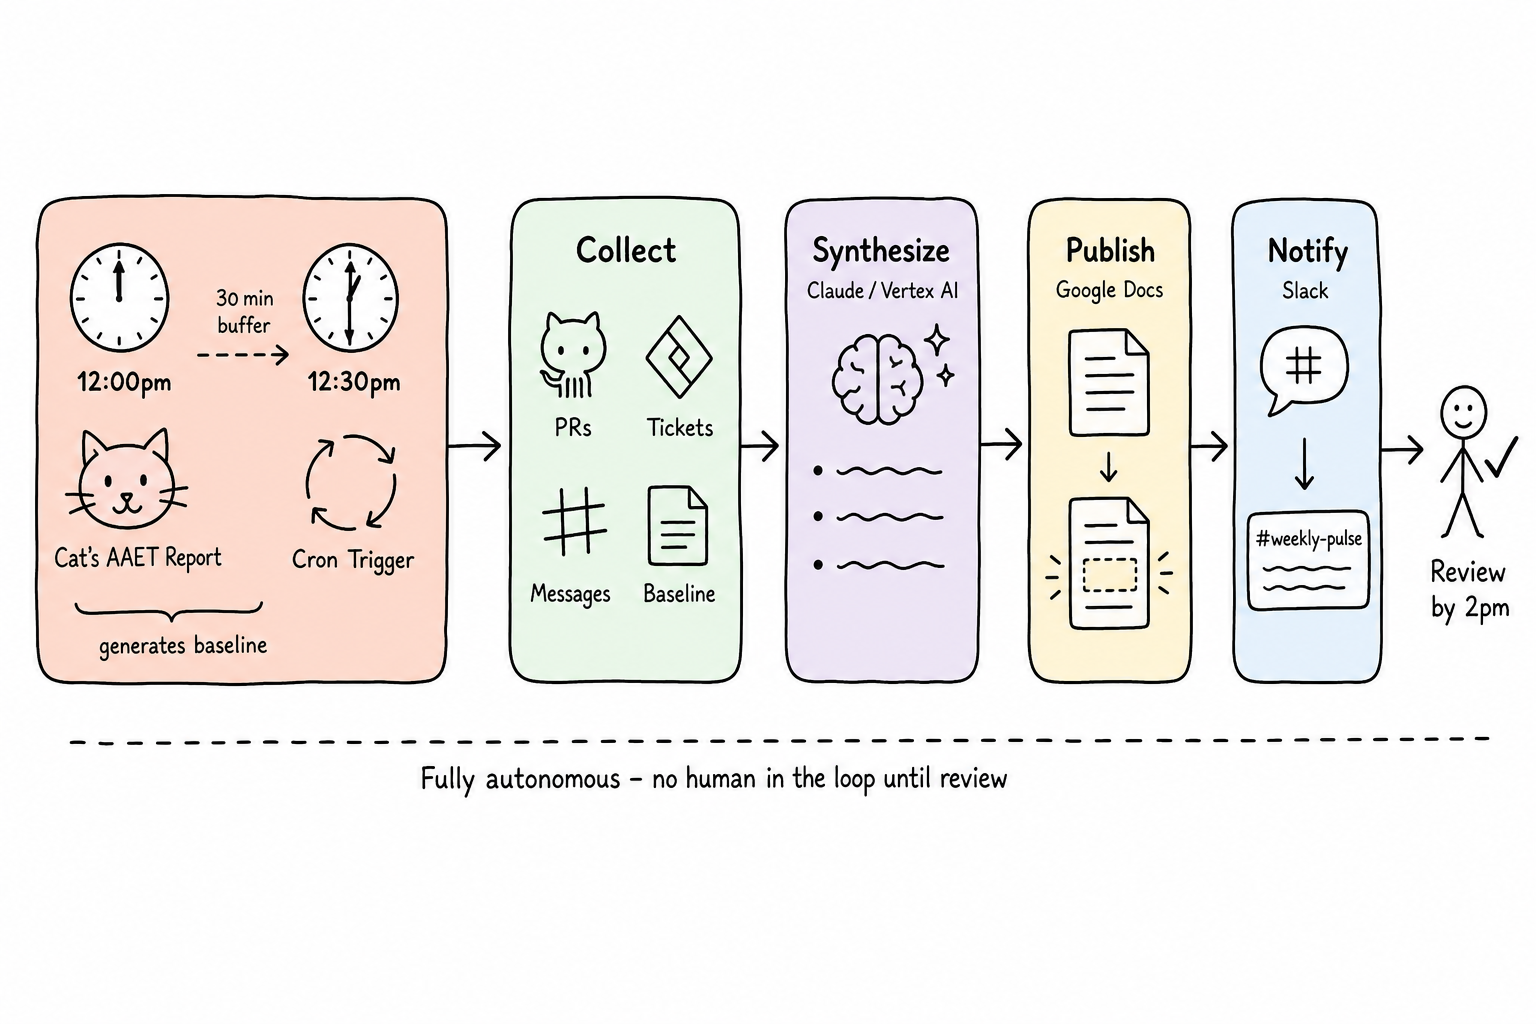
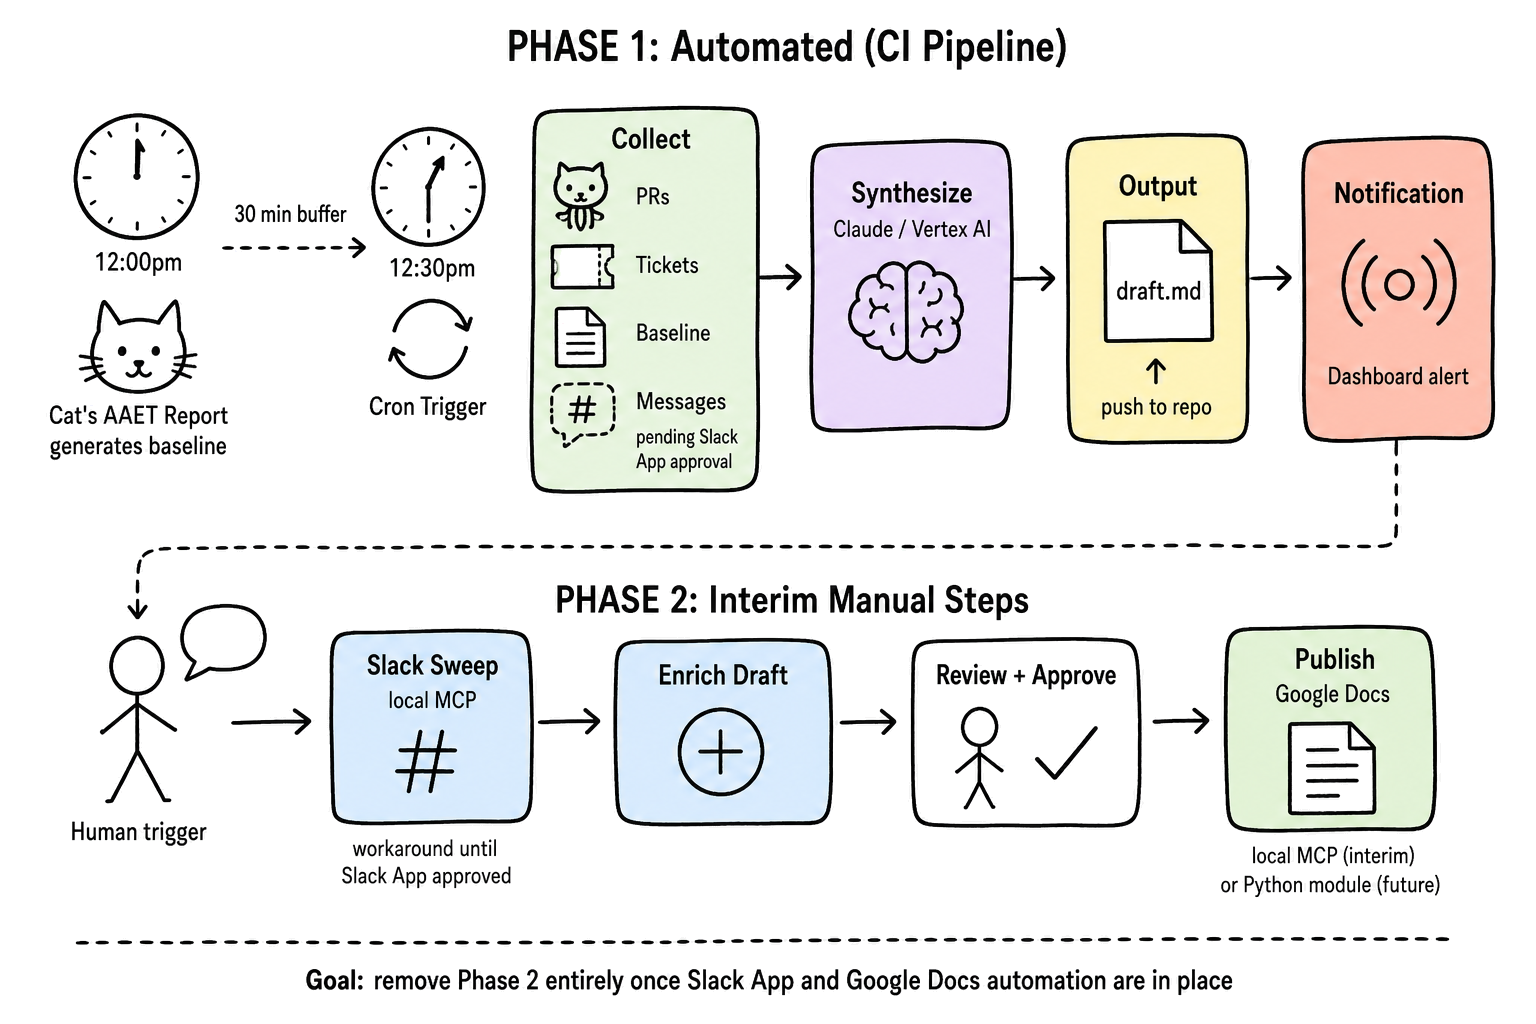
docs: update architecture for two-phase review flow
README now reflects the current state: CI generates drafts
autonomously, interim manual steps handle Slack sweep and
Google Docs publishing via local MCP. Diagrams regenerated
to show Phase 1 (automated) vs Phase 2 (interim manual steps
to be automated away). Added automation roadmap table.

diff --git a/memory.md b/memory.md
@@ -9,6 +9,7 @@ draft produced for Jun 11 report. Style rules established and captured in
 ### Left Off
 
 Three gaps for full automation:
+
 1. Google Docs publisher (find DP section in weekly doc, replace with draft)
 2. GitHub Actions secrets (GH_PAT_TOKEN, JIRA creds, GCP_CREDENTIALS)
 3. Slack webhook or posting mechanism for team review
@@ -19,3 +20,71 @@ Three gaps for full automation:
   or google-api-python-client?
 - Should we contribute DP-specific repos to Cat's config.yaml upstream?
 - Rishabh wants to help improve the tooling: loop him in?
+
+---
+
+## 2026-06-12 - CI + Notifications
+
+### Resume
+
+CI pipeline runs green. Cron at 12:30pm ET (after Cat's noon report).
+4 of 5 secrets set. Dashboard notification system pulsing when draft ready.
+Output organized into date folders.
+
+### Left Off
+
+Remaining for full autonomy: Slack user token, Google Docs publisher, Slack
+notify step. All else is working end-to-end.
+
+### Open Questions
+
+- Is the Slack user token worth the complexity for weekly collection, or is
+  manual MCP sweep during review sufficient?
+- Google Docs publisher: use google-api-python-client directly, or explore
+  Cat's gws CLI approach?
+
+---
+
+## 2026-06-13 - Review and Publish Skill
+
+### Resume
+
+Built the interactive "review and publish" flow as an Argus skill. Ran a
+feasibility spike on the Google Docs publisher, validated MCP tools work
+for section replacement. Created the `weekly-pulse-review` skill and
+enhanced the Dashboard notification with an action button.
+
+### Done
+
+- Feasibility spike: confirmed Google Docs MCP tools can read/write the
+  "Weekly Summary" doc (ID: `1jMyzuYlkKyl_CULDhyb2CaWGUrAkk4DI6rW0diI0J38`)
+- Validated `find_and_replace_doc` works for unique text replacement (no-op test)
+- Identified doc structure: teams are bullets under "Weekly Updates", not headings
+- Created `.cursor/skills/weekly-pulse-review/SKILL.md` with full 7-step workflow
+- Designed Slack MCP sweep: `search_messages` per team member (5 calls)
+- Added "Review Pulse" button to Dashboard notification bar (copies trigger phrase)
+- Updated `/argus.start` action item text to mention the skill trigger
+
+### Decisions
+
+- 2026-06-13: Google Docs publisher approach is interactive (Argus session),
+  not CI. Use `find_and_replace_doc` for filled sections, `modify_doc_text`
+  with index calculation for blank templates.
+- 2026-06-13: Slack sweep uses MCP `search_messages` (browser token) during
+  review session, not a CI-stable xoxp token. Human-in-loop is the design.
+- 2026-06-13: Re-synthesis skips LLM call; manually integrate notable Slack
+  findings as extra bullets to keep it fast and predictable.
+
+### Left Off
+
+Skill is scaffolded and ready for first live test. The next Thursday
+(Jun 18) will be the first real run. Key things to validate live:
+1. Does the Slack sweep return useful signal from MCP?
+2. Does the section boundary detection work on the current week's template?
+3. Does the full publish flow work end-to-end?
+
+### Open Questions
+
+- How does Sarah prepare the doc each week? Does she insert the date into
+  the template beforehand, or fill it after collecting content?
+- Should we auto-detect "current week" by date proximity, or always ask?

diff --git a/README.md b/README.md
@@ -2,38 +2,57 @@
 
 Generates Data Processing team highlights for the **AAET Weekly Pulse Check**.
 
-Runs every Thursday morning, before the 12:30pm ET leadership notification.
-Collects activity from GitHub, Jira, and Slack, then uses an LLM to
-synthesize raw data into human-readable bullet points matching the report format.
+A two-phase system: CI generates a draft autonomously every Thursday, then
+an interactive review step handles Slack enrichment and Google Docs publishing
+with a human in the loop.
+
+The long-term goal is full autonomy - remove the human from Phase 2 entirely.
+Two blockers remain: a pending Slack App approval (for CI-based message
+collection) and a Google Docs publisher module (Python, not MCP).
 
 ## How it works
 
-![Weekly Pulse autonomous flow](weekly-pulse-flow.png)
+![Weekly Pulse flow](weekly-pulse-flow.png)
 
-1. **Cron trigger** - GitHub Actions fires every Thursday at 12:30pm ET
-2. **Collect** - pulls from four sources in parallel: GitHub PRs/reviews,
-   Jira tickets, Slack messages, and the baseline AAET report
+**Phase 1 - Automated (CI Pipeline, every Thursday 12:30pm ET):**
+
+1. **Cron trigger** - GitHub Actions fires 30min after Cat's baseline AAET report
+2. **Collect** - pulls from GitHub PRs/reviews, Jira tickets, and the baseline
+   report. Slack message collection requires a Slack App with `search:read`
+   scope, which is pending internal approval. Skipped gracefully without it.
 3. **Synthesize** - Claude (Vertex AI) distills raw data into concise,
    style-matched bullet points
-4. **Publish** - a Google Docs publisher module finds and replaces the
-   Data Processing section in the live Pulse doc
-5. **Notify** - posts the draft to Slack for a quick human review before
-   the Friday noon deadline
+4. **Output** - draft committed to repo, Dashboard notification fires
 
-The goal is full autonomy: no human in the loop until the review step.
-Today, steps 1-3 work; steps 4-5 (publish + notify) are the remaining gaps.
+**Phase 2 - Interim Manual Steps (goal: automate away):**
+
+1. **Human trigger** - user initiates the review flow locally
+2. **Slack sweep** - uses a local MCP tool to search team member messages.
+   This is a workaround until the Slack App is approved, at which point
+   collection moves into the CI pipeline (Phase 1, step 2).
+3. **Enrich** - notable Slack findings are folded into the draft
+4. **Review + Approve** - user reviews the final version
+5. **Publish** - writes the DP section to the live Google Doc. Currently
+   uses a local MCP tool; long-term, this becomes a Python module
+   (`google-api-python-client`) running in CI.
 
 ## Architecture
 
 ![System architecture](system-architecture.png)
 
-The system is a Python pipeline orchestrated by `generate.py`. GitHub Actions
-triggers it on a cron schedule (or manual dispatch). The orchestrator calls four
+The CI layer is a Python pipeline orchestrated by `generate.py`. GitHub Actions
+triggers it on a cron schedule (or manual dispatch). The orchestrator calls
 collector modules in sequence, each hitting a different external API. Collected
 data flows into `synthesize.py`, which formats it against `prompt.md` templates
 and calls Vertex AI (Claude) for final bullet generation. Output is committed
-back to the repo. Google Docs publishing and Slack notification are the next
-modules to build (dashed cards above).
+back to the repo and a Dashboard notification fires.
+
+The interim manual steps run locally via MCP tools. Slack sweep uses
+`search_messages` (browser-authenticated token) to compensate for the
+missing CI token. Publishing uses `find_and_replace_doc` or `modify_doc_text`
+for Google Docs section replacement. Both of these will become Python modules
+in the CI pipeline once the Slack App is approved and Google Docs auth is
+configured as a CI secret.
 
 ## Quick start
 
@@ -48,8 +67,8 @@ python generate.py --days-back 7
 ## Automated schedule
 
 GitHub Actions runs every Thursday at 12:30pm ET (after Cat's AAET baseline
-report generates at noon). Draft is ready for review by ~12:35pm, targeting
-team Slack post by 2pm. You can also trigger manually from the Actions tab.
+report generates at noon). Draft is ready for review by ~12:35pm. You can
+also trigger the CI manually from the Actions tab.
 
 ## Configuration
 
@@ -67,5 +86,13 @@ Edit `config.yaml` to update:
 | `GITHUB_TOKEN` | Access to Cat's report repo + team activity |
 | `JIRA_USERNAME` | Jira API auth |
 | `JIRA_API_TOKEN` | Jira API auth |
-| `SLACK_USER_TOKEN` | Slack message search (xoxp token, `search:read` scope) |
+| `SLACK_USER_TOKEN` | Slack message search (xoxp token, `search:read` scope) - pending Slack App approval |
 | `GCP_CREDENTIALS` | Vertex AI for Claude (JSON service account key) |
+
+## Automation roadmap
+
+| Blocker | Status | Once resolved |
+|---|---|---|
+| Slack App (`search:read` scope) | Pending approval | Slack collection moves to CI (Phase 1) |
+| Google Docs publisher module | Designed, needs Python impl | Publishing moves to CI, no human needed |
+| Full autonomy | Blocked on above | Phase 2 disappears entirely |